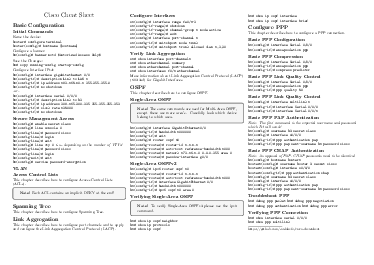
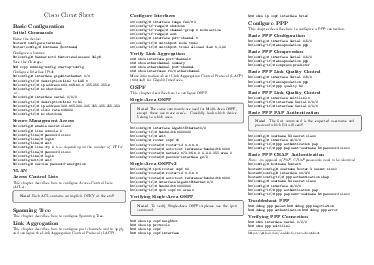
Updated note styling

diff --git a/cheatsheet.tex b/cheatsheet.tex
@@ -198,7 +198,9 @@ This chapter describes how to configure a PPP connection.
 \verb!R1(config-if)# interface Serial 0/0/1!
 
 \subsection{Basic PPP PAP Authentication}
-\textit{Note: The first command is the expected username and password which R3 will send!}
+\begin{tcolorbox}
+\textbf{Note!} The first command is the expected username and password which R3 will send!
+\end{tcolorbox}
 
 \verb!R1(config)# username R3 secret class!
 \verb!R1(config)# interface s0/0/0!
